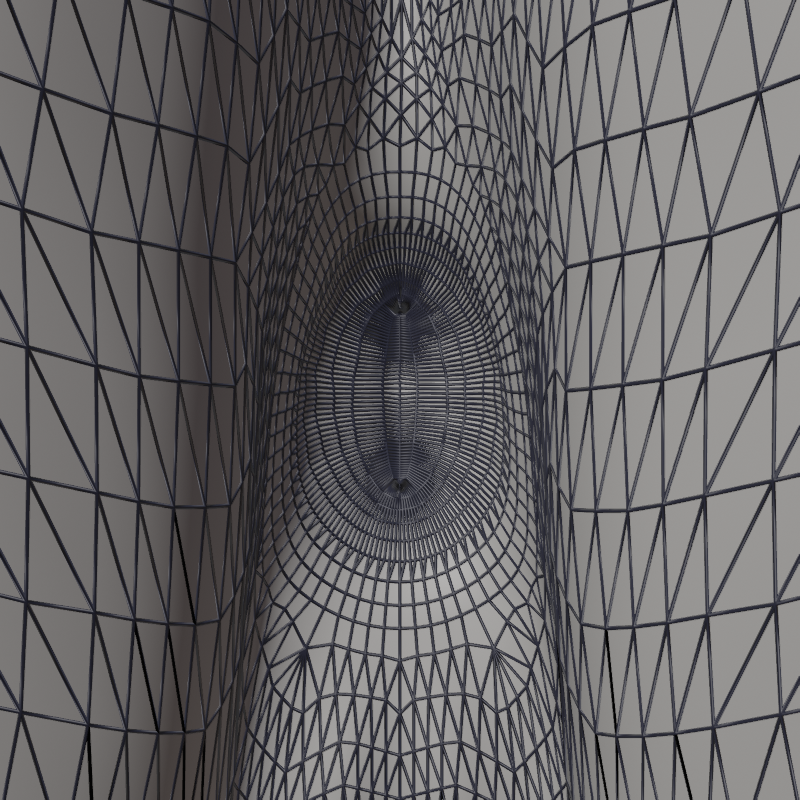
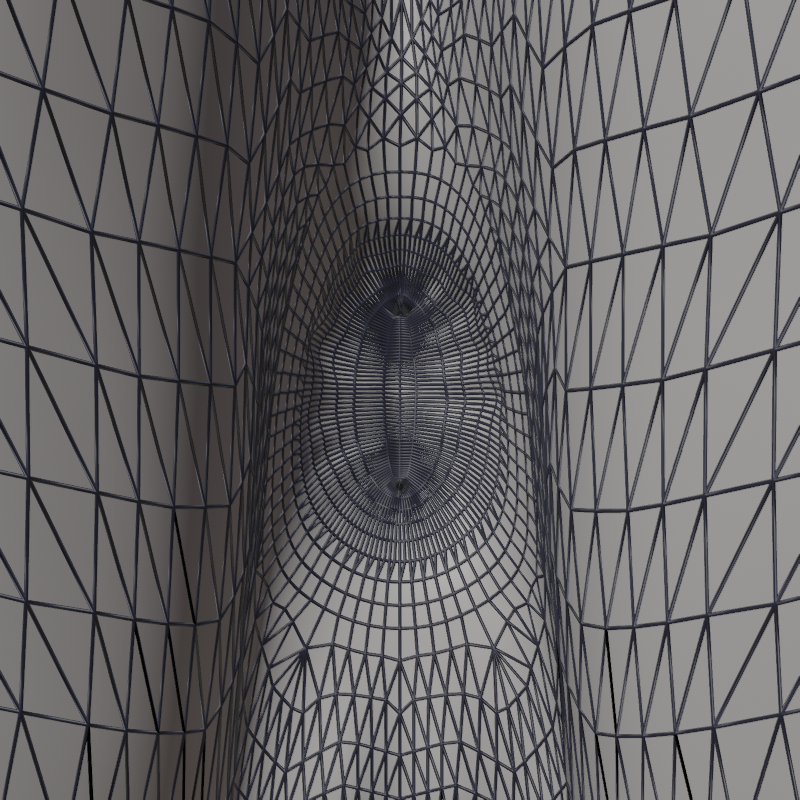
build8: randomised 3D creases instead of painted lines
- creases are relief only: each side gets its own seeded random set (angle,
  depth, width, length, bend, wobble, tapering from the slit, plus short
  secondary wrinkles); no mirroring
- shallower funnel, slightly tighter and irregular pigment edge, painted
  crease lines off by default (strength node left at 0)
- crease shading: inside the anus the toon result is darkened by the light
  ratio between the creased surface and the smooth surface under it, so the
  folds read in 3D under the scene light, in the shader's own colours; masked
  and with its own strength node
- preview renders at 1200 px

Claude-Session: https://claude.ai/code/session_01GkHsFACxGEb36mHX3TdUWk

Changed region(s): [[0.3438, 0.25, 0.6562, 0.7188]]

diff --git a/scripts/build8.py b/scripts/build8.py
@@ -1,9 +1,9 @@
-"""Detail pass on the anus of Hips.blend (v8: squeezed pucker):
+"""Detail pass on the anus of Hips.blend (v8: squeezed pucker, randomised 3D creases):
 skin crease smoothing, cleft walls pressed in around the anus, high-detail pucker rebuilt as an AP slit with
 creases fanning out of it, laid out by arc length over the skin so it rides up the cheek walls,
 pigment as an editable shader mask, internal fit raised 1 cm, angled anal canal + lower rectal ampulla,
 sphincter re-seated."""
-import bpy, bmesh, math, sys, json, os
+import bpy, bmesh, math, sys, json, os, random
 import numpy as np
 from mathutils import Vector, Matrix
 
@@ -30,6 +30,8 @@ O = Vector((0.0, 0.0565, 0.790))                 # on the cleft floor, centre of
 bm = bmesh.new(); bm.from_mesh(me)
 pig_layer = bm.verts.layers.float.get("anus_pigment") or bm.verts.layers.float.new("anus_pigment")  # before taking refs
 cre_layer = bm.verts.layers.float.get("anus_crease") or bm.verts.layers.float.new("anus_crease")
+fs_layer = bm.verts.layers.float.get("anus_fold_shade") or bm.verts.layers.float.new("anus_fold_shade")
+bn_layer = bm.verts.layers.float_vector.get("anus_base_normal") or bm.verts.layers.float_vector.new("anus_base_normal")
 bm.verts.ensure_lookup_table(); bm.faces.ensure_lookup_table()
 bm.normal_update()
 ann = np.array([tuple(v.co) for v in bm.verts if 0.010 < (v.co - O).length < 0.016])
@@ -276,24 +278,59 @@ report["deleted_verts"] = len(D); report["hole_loop"] = len(L)
 SLIT = 3.0                       # mm, half-length of the closed AP slit
 K_LAT = 0.85                     # lateral (arc length) / AP for the confocal rings -> AP-elongated
 RINGS = [3.06, 3.5, 3.9, 4.4, 5.0, 5.7, 6.4, 7.2, 8.0, 8.8]     # AP semi-axis of each ring, mm
-# folds on one lip (theta in [0, pi]); mirrored to the other lip so the skin stays exactly mirror-symmetric.
-# (angle deg, weight, width rad, AP radius where the fold dies out) - uneven so they don't read as a ladder
-FOLDS = [(0, 0.8, 0.07, 6.0), (18, 0.6, 0.055, 5.4), (37, 0.95, 0.065, 6.4), (57, 0.75, 0.06, 5.7),
-         (78, 1.05, 0.07, 6.6), (97, 0.85, 0.06, 6.1), (117, 1.0, 0.065, 6.5), (139, 0.7, 0.055, 5.6),
-         (160, 0.9, 0.06, 6.2), (180, 0.8, 0.07, 6.0)]
-FOLDS += [(-a, w, sg, re) for a, w, sg, re in FOLDS if 0 < a < 180]
-FUNNEL = 1.2; R_FOLD = 7.4; FOLD_DEPTH = 0.14; SLIT_DEPTH = 0.6
-def crease(theta, r=None):
+# Creases are modelled (relief), not painted. Each lip gets its own randomly drawn set - no mirroring - with its own
+# angle, depth, width, length, a gentle bend and a slight wobble; each fold tapers from the slit outwards, and a few
+# short shallow wrinkles sit between the main ones. Seeded: a rebuild gives the same pattern, change CREASE_SEED for
+# another.
+CREASE_SEED = 11
+_rng = random.Random(CREASE_SEED)
+
+
+def _fold(th0, w, sig, r0, r1):
+    return dict(th0=th0, w=w, sig=sig, r0=r0, r1=r1, bend=_rng.uniform(-0.15, 0.15),
+                wob=_rng.uniform(0.0, 0.04), wf=_rng.uniform(0.6, 1.6), wp=_rng.uniform(0, 2 * math.pi))
+
+
+FOLDS = []
+for end in (0.0, math.pi):                                           # one fold along the cleft at each slit end
+    FOLDS.append(_fold(end + _rng.uniform(-0.07, 0.07), _rng.uniform(0.6, 0.85), _rng.uniform(0.09, 0.12),
+                       RINGS[0], _rng.uniform(5.8, 6.8)))
+for lip in (0.0, math.pi):                                           # lip with s > 0, then s < 0
+    n_main = _rng.choice((6, 7, 7, 8)); sp = math.pi / (n_main + 1)
+    for i in range(1, n_main + 1):
+        FOLDS.append(_fold(lip + i * sp + _rng.uniform(-0.28, 0.28) * sp, _rng.uniform(0.65, 1.15),
+                           _rng.uniform(0.085, 0.13), RINGS[0] + _rng.choice((0.0, 0.0, _rng.uniform(0.1, 0.5))),
+                           _rng.uniform(5.4, 7.0)))
+    for _ in range(_rng.randint(2, 4)):                              # short shallow secondary wrinkles
+        r0 = _rng.uniform(3.4, 4.6)
+        FOLDS.append(_fold(lip + _rng.uniform(0.15, math.pi - 0.15), _rng.uniform(0.3, 0.5),
+                           _rng.uniform(0.065, 0.085), r0, r0 + _rng.uniform(1.2, 2.2)))
+FUNNEL = 0.9; R_FOLD = 7.4; FOLD_DEPTH = 0.35; SLIT_DEPTH = 0.5; RIDGE = 0.3
+# pigment outline: a few low harmonics with random phases (+-~4 %) so it isn't a perfect, mirrored oval
+PIG_WOBBLE = [(k, _rng.uniform(0.008, 0.016), _rng.uniform(0, 2 * math.pi)) for k in (2, 3, 5)]
+
+
+def pig_r(r, th):
+    return r * (1 + sum(a * math.sin(k * th + ph) for k, a, ph in PIG_WOBBLE))
+
+
+def crease(theta, r):
+    """0..~1.3 groove strength at elliptic angle theta, AP radius r"""
     s_ = 0.0
-    for a, w, sg, re in FOLDS:
-        dt = (theta - math.radians(a) + math.pi) % (2 * math.pi) - math.pi
-        fade = 1.0 if r is None else 1 - ss(re - 1.2, re, r)
-        s_ += w * fade * math.exp(-dt * dt / (2 * sg * sg))
-    return s_
+    for f in FOLDS:
+        t = min(max((r - RINGS[0]) / (f["r1"] - RINGS[0]), 0.0), 1.0)
+        c = f["th0"] + f["bend"] * t + f["wob"] * math.sin(2 * math.pi * f["wf"] * t + f["wp"])
+        dt = (theta - c + math.pi) % (2 * math.pi) - math.pi
+        sig = f["sig"] * (1.1 - 0.5 * t)                             # narrows towards its outer end
+        env = 1 - ss(f["r1"] - 1.8, f["r1"], r)
+        if f["r0"] > RINGS[0]:
+            env *= ss(f["r0"], f["r0"] + 0.4, r)
+        s_ += f["w"] * env * math.exp(-dt * dt / (2 * sig * sig))
+    return min(s_, 1.3)
 
 
 def fold_amp(r):                 # wrinkles are deepest just outside the slit and die out before the cheek walls
-    return FOLD_DEPTH * ss(RINGS[0], RINGS[0] + 0.5, r) * (1 - ss(4.5, 6.4, r))
+    return FOLD_DEPTH * ss(RINGS[0], RINGS[0] + 0.6, r) * (1 - ss(4.8, 7.0, r))
 
 
 def paint_amp(r):                # painted crease lines run a little further than the relief
@@ -407,10 +444,14 @@ for v, (r, th) in info.items():
         relief = -FUNNEL - SLIT_DEPTH * sw ** 1.5
         v[pig_layer] = 1.0; v[cre_layer] = 0.9 * sw ** 0.5
     else:
-        relief = -FUNNEL * (1 - ss(RINGS[0], R_FOLD, r)) + fold_amp(r) * (0.15 - crease(th, r))
-        v[pig_layer] = 1 - ss(5.0, 8.0, r)
+        relief = -FUNNEL * (1 - ss(RINGS[0], R_FOLD, r)) + fold_amp(r) * (RIDGE - crease(th, r))
+        v[pig_layer] = 1 - ss(5.6, 7.8, pig_r(r, th))
         v[cre_layer] = min(1.0, crease(th, r)) * paint_amp(r)
     v.co = base_pos[v] + bnorm[v] * (relief / 1000)
+    v[fs_layer] = 1 - ss(6.5, 8.6, r)              # where the fold shading acts (0 at the outer ring)
+bm.normal_update()
+for v in bm.verts:                                 # smooth (un-creased) normal, for the fold shading's reference light
+    v[bn_layer] = bnorm.get(v, v.normal)
 
 outer = rings[-1]
 outer_edges = [bm.edges.get((outer[k], outer[(k + 1) % len(outer)])) for k in range(len(outer))]
@@ -546,7 +587,7 @@ nt.links.new(attr.outputs["Fac"], stren.inputs[0])
 cattr = nt.nodes.new("ShaderNodeAttribute"); cattr.name = "AnusPig_CreaseMask"; cattr.attribute_name = "anus_crease"
 cattr.attribute_type = 'GEOMETRY'
 cstren = nt.nodes.new("ShaderNodeMath"); cstren.name = "AnusPig_CreaseStrength"; cstren.label = "Crease line strength"
-cstren.operation = 'MULTIPLY'; cstren.inputs[1].default_value = 0.6; cstren.use_clamp = True
+cstren.operation = 'MULTIPLY'; cstren.inputs[1].default_value = 0.0; cstren.use_clamp = True   # 0 = no painted lines
 nt.links.new(cattr.outputs["Fac"], cstren.inputs[0])
 cols = {"maintex": ("Lit colour", (0.98, 0.66, 0.71), "Crease colour (lit)", (0.82, 0.47, 0.55)),
         "darktex": ("Shadow colour", (0.84, 0.55, 0.61), "Crease colour (shadow)", (0.66, 0.37, 0.45))}
@@ -575,6 +616,57 @@ attr.location = (x0 - 420, y0); stren.location = (x0 - 210, y0)
 cattr.location = (x0 - 420, y0 - 300); cstren.location = (x0 - 210, y0 - 300)
 for nd in (attr, stren, cattr, cstren):
     nd.parent = frame
+
+# 3D creases in a two-tone shader: the hard cut hides small relief, so inside the anus the toon result is darkened
+# by how much the creased surface is lit relative to the smooth surface under it (light ratio from two Diffuse
+# evaluations). It follows the scene light and uses the shader's own light / shadow colours.
+for nd in [x for x in nt.nodes if x.name.startswith("AnusFold")]:
+    nt.nodes.remove(nd)
+raw_out = nt.nodes["RawShade"].outputs["Raw shading"]; raw_in = nt.nodes["Shader"].inputs["Raw Shading"]
+for lk in list(raw_out.links):
+    if lk.to_socket == raw_in:
+        nt.links.remove(lk)
+fframe = nt.nodes.new("NodeFrame"); fframe.name = "AnusFold_Frame"; fframe.label = "Anus crease shading (3D)"
+
+
+def fnode(kind, name, label=None, op=None, vals=None, clamp=False):
+    nd = nt.nodes.new(kind); nd.name = "AnusFold_" + name; nd.parent = fframe
+    if label: nd.label = label
+    if op: nd.operation = op
+    for i, val in (vals or {}).items():
+        nd.inputs[i].default_value = val
+    if clamp: nd.use_clamp = True
+    return nd
+
+
+fmask = fnode("ShaderNodeAttribute", "Mask"); fmask.attribute_name = "anus_fold_shade"; fmask.attribute_type = 'GEOMETRY'
+fbn = fnode("ShaderNodeAttribute", "BaseNormal"); fbn.attribute_name = "anus_base_normal"; fbn.attribute_type = 'GEOMETRY'
+fnorm = fnode("ShaderNodeVectorMath", "BaseNormalUnit", op='NORMALIZE')
+dgeo = fnode("ShaderNodeBsdfDiffuse", "LightCreased"); dbase = fnode("ShaderNodeBsdfDiffuse", "LightSmooth")
+for d_ in (dgeo, dbase):
+    d_.inputs["Color"].default_value = (1, 1, 1, 1)
+rgeo = fnode("ShaderNodeShaderToRGB", "RGBCreased"); rbase = fnode("ShaderNodeShaderToRGB", "RGBSmooth")
+bgeo = fnode("ShaderNodeRGBToBW", "BWCreased"); bbase = fnode("ShaderNodeRGBToBW", "BWSmooth")
+eps = fnode("ShaderNodeMath", "Eps", op='ADD', vals={1: 1e-4})
+ratio = fnode("ShaderNodeMath", "Ratio", op='DIVIDE', clamp=True)
+gam = fnode("ShaderNodeMath", "Contrast", label="Contrast (power)", op='POWER', vals={1: 1.6}, clamp=True)
+inv = fnode("ShaderNodeMath", "Darkening", op='SUBTRACT', vals={0: 1.0})
+fstr = fnode("ShaderNodeMath", "Strength", label="Crease shading strength", op='MULTIPLY', vals={1: 0.8})
+fmul = fnode("ShaderNodeMath", "Masked", op='MULTIPLY')
+keep = fnode("ShaderNodeMath", "Keep", op='SUBTRACT', vals={0: 1.0})
+fout = fnode("ShaderNodeMath", "Apply", op='MULTIPLY', clamp=True)
+L = nt.links.new
+L(fbn.outputs["Vector"], fnorm.inputs[0]); L(fnorm.outputs["Vector"], dbase.inputs["Normal"])
+L(dgeo.outputs[0], rgeo.inputs[0]); L(dbase.outputs[0], rbase.inputs[0])
+L(rgeo.outputs["Color"], bgeo.inputs[0]); L(rbase.outputs["Color"], bbase.inputs[0])
+L(bbase.outputs[0], eps.inputs[0]); L(bgeo.outputs[0], ratio.inputs[0]); L(eps.outputs[0], ratio.inputs[1])
+L(ratio.outputs[0], gam.inputs[0]); L(gam.outputs[0], inv.inputs[1])
+L(inv.outputs[0], fstr.inputs[0]); L(fstr.outputs[0], fmul.inputs[0]); L(fmask.outputs["Fac"], fmul.inputs[1])
+L(fmul.outputs[0], keep.inputs[1]); L(raw_out, fout.inputs[0]); L(keep.outputs[0], fout.inputs[1])
+L(fout.outputs[0], raw_in)
+_x, _y = nt.nodes["Shader"].location.x - 1500, nt.nodes["Shader"].location.y - 700
+for i, nd in enumerate((fmask, fbn, fnorm, dgeo, dbase, rgeo, rbase, bgeo, bbase, eps, ratio, gam, inv, fstr, fmul, keep, fout)):
+    nd.location = (_x + 180 * (i // 2), _y - 160 * (i % 2))
 
 # body normal map off over the rebuilt cleft: the 1024 px map is magnified ~15x here and still carries the old
 # cleft/anus shape, so under the toon cut it draws texel-sized spikes (sawtooth pigment edge, white sliver above the

diff --git a/scripts/render_close.py b/scripts/render_close.py
@@ -9,7 +9,7 @@ cam_d = bpy.data.cameras.new("RC"); cam_d.lens = 85; cam_d.clip_start = 0.001
 cam = bpy.data.objects.new("RC", cam_d); sc.collection.objects.link(cam); sc.camera = cam
 li_d = bpy.data.lights.new("RL", 'SUN'); li_d.energy = 3
 li = bpy.data.objects.new("RL", li_d); sc.collection.objects.link(li)
-sc.render.resolution_x = sc.render.resolution_y = 800
+sc.render.resolution_x = sc.render.resolution_y = 1200
 views = {"close": (n, 0.11), "below": ((n + Vector((0, 0, -0.9))).normalized(), 0.30)}
 for vname, (dirv, dist) in views.items():
     cam.location = A + dirv * dist
